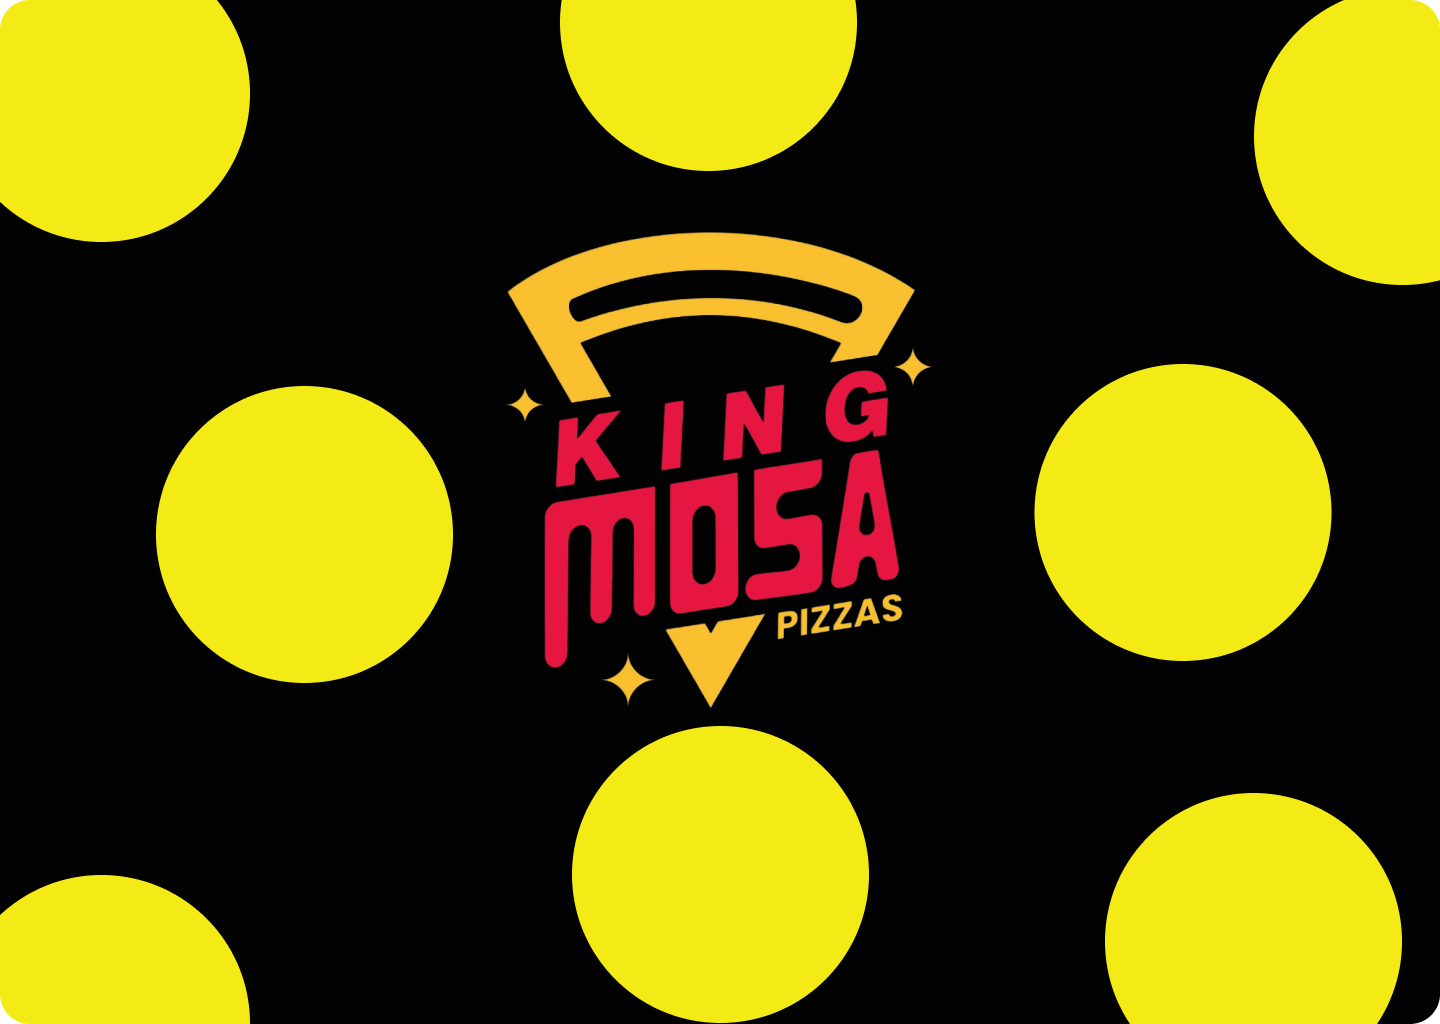
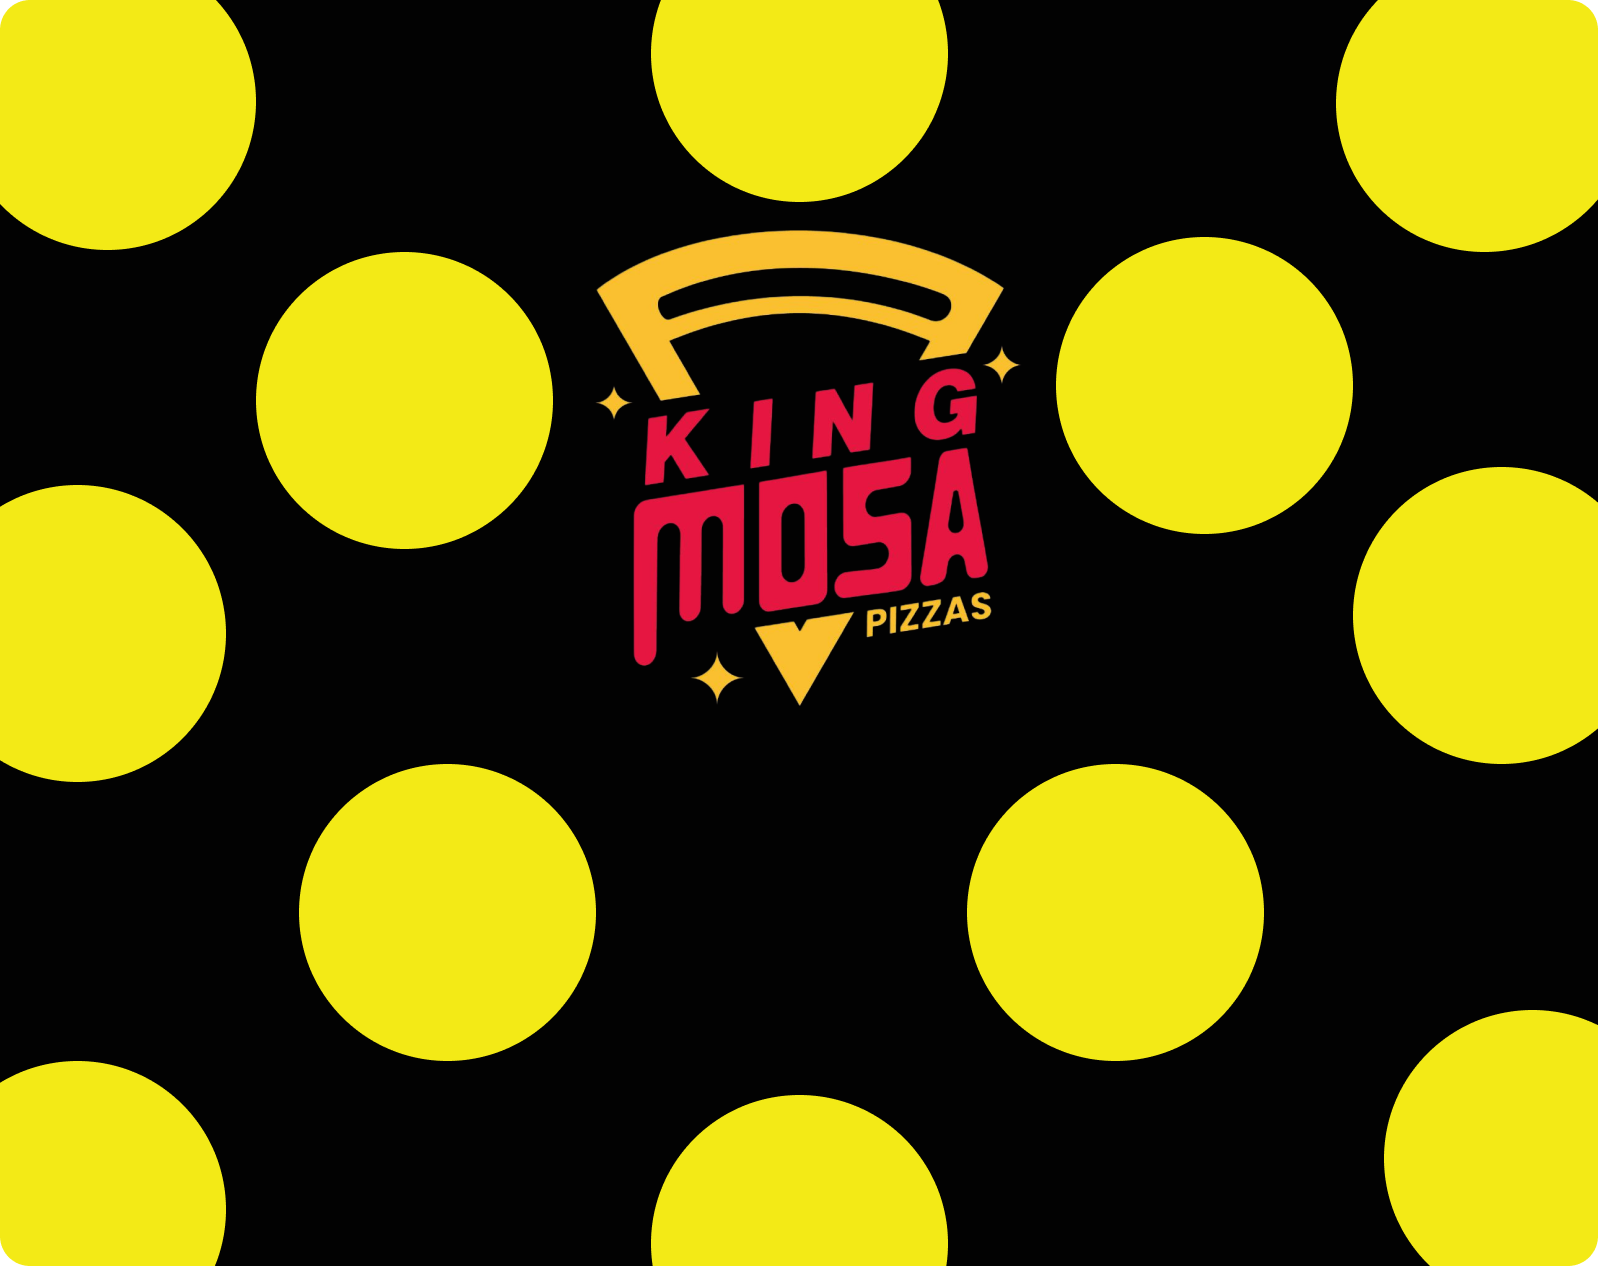
Ajuste y diseño de Home

diff --git a/src/Components/Home.css b/src/Components/Home.css
@@ -1,10 +1,17 @@
 /* Home.css */
 .home {
-    background-color: black;
+    background-image: url(/src/Components/img/Desktop\ -\ 1.png);
+    background-repeat: no-repeat;
+    background-size: cover;
+    background-position: center center bottom;
     height: 100vh;
-    display: flex;
-    justify-content: center;
-    align-items: center;
-    flex-direction: column;
+    width: 100vw;
   }
+img{
+    position: absolute;
+    top:100%;
+    left: 35%;
+
+}
+  
   

diff --git a/src/App.js b/src/App.js
@@ -7,8 +7,8 @@ function App() {
   return (
     <Router>
       <Routes>
-        <Route exact path="/" component={Home} />
-        <Route path="/mainpage" component={About} />
+        <Route exact path="/" element={<Home/>} />
+        <Route path="/mainpage" element={<About/>} />
       </Routes>
     </Router>
   );

diff --git a/src/Components/Home.js b/src/Components/Home.js
@@ -7,7 +7,6 @@ import Entrar from "./img/Entrar.png";
 function Home() {
   return (
     <div className="home">
-      <h1>Home Page</h1>
       <Link to="/about">
         <img src={Entrar} alt="Go to About" />
       </Link>

diff --git a/public/index.html b/public/index.html
@@ -1,5 +1,5 @@
 <!DOCTYPE html>
-<html lang="en">
+<html lang="es">
   <head>
     <meta charset="utf-8" />
     <link rel="icon" href="%PUBLIC_URL%/favicon.ico" />
